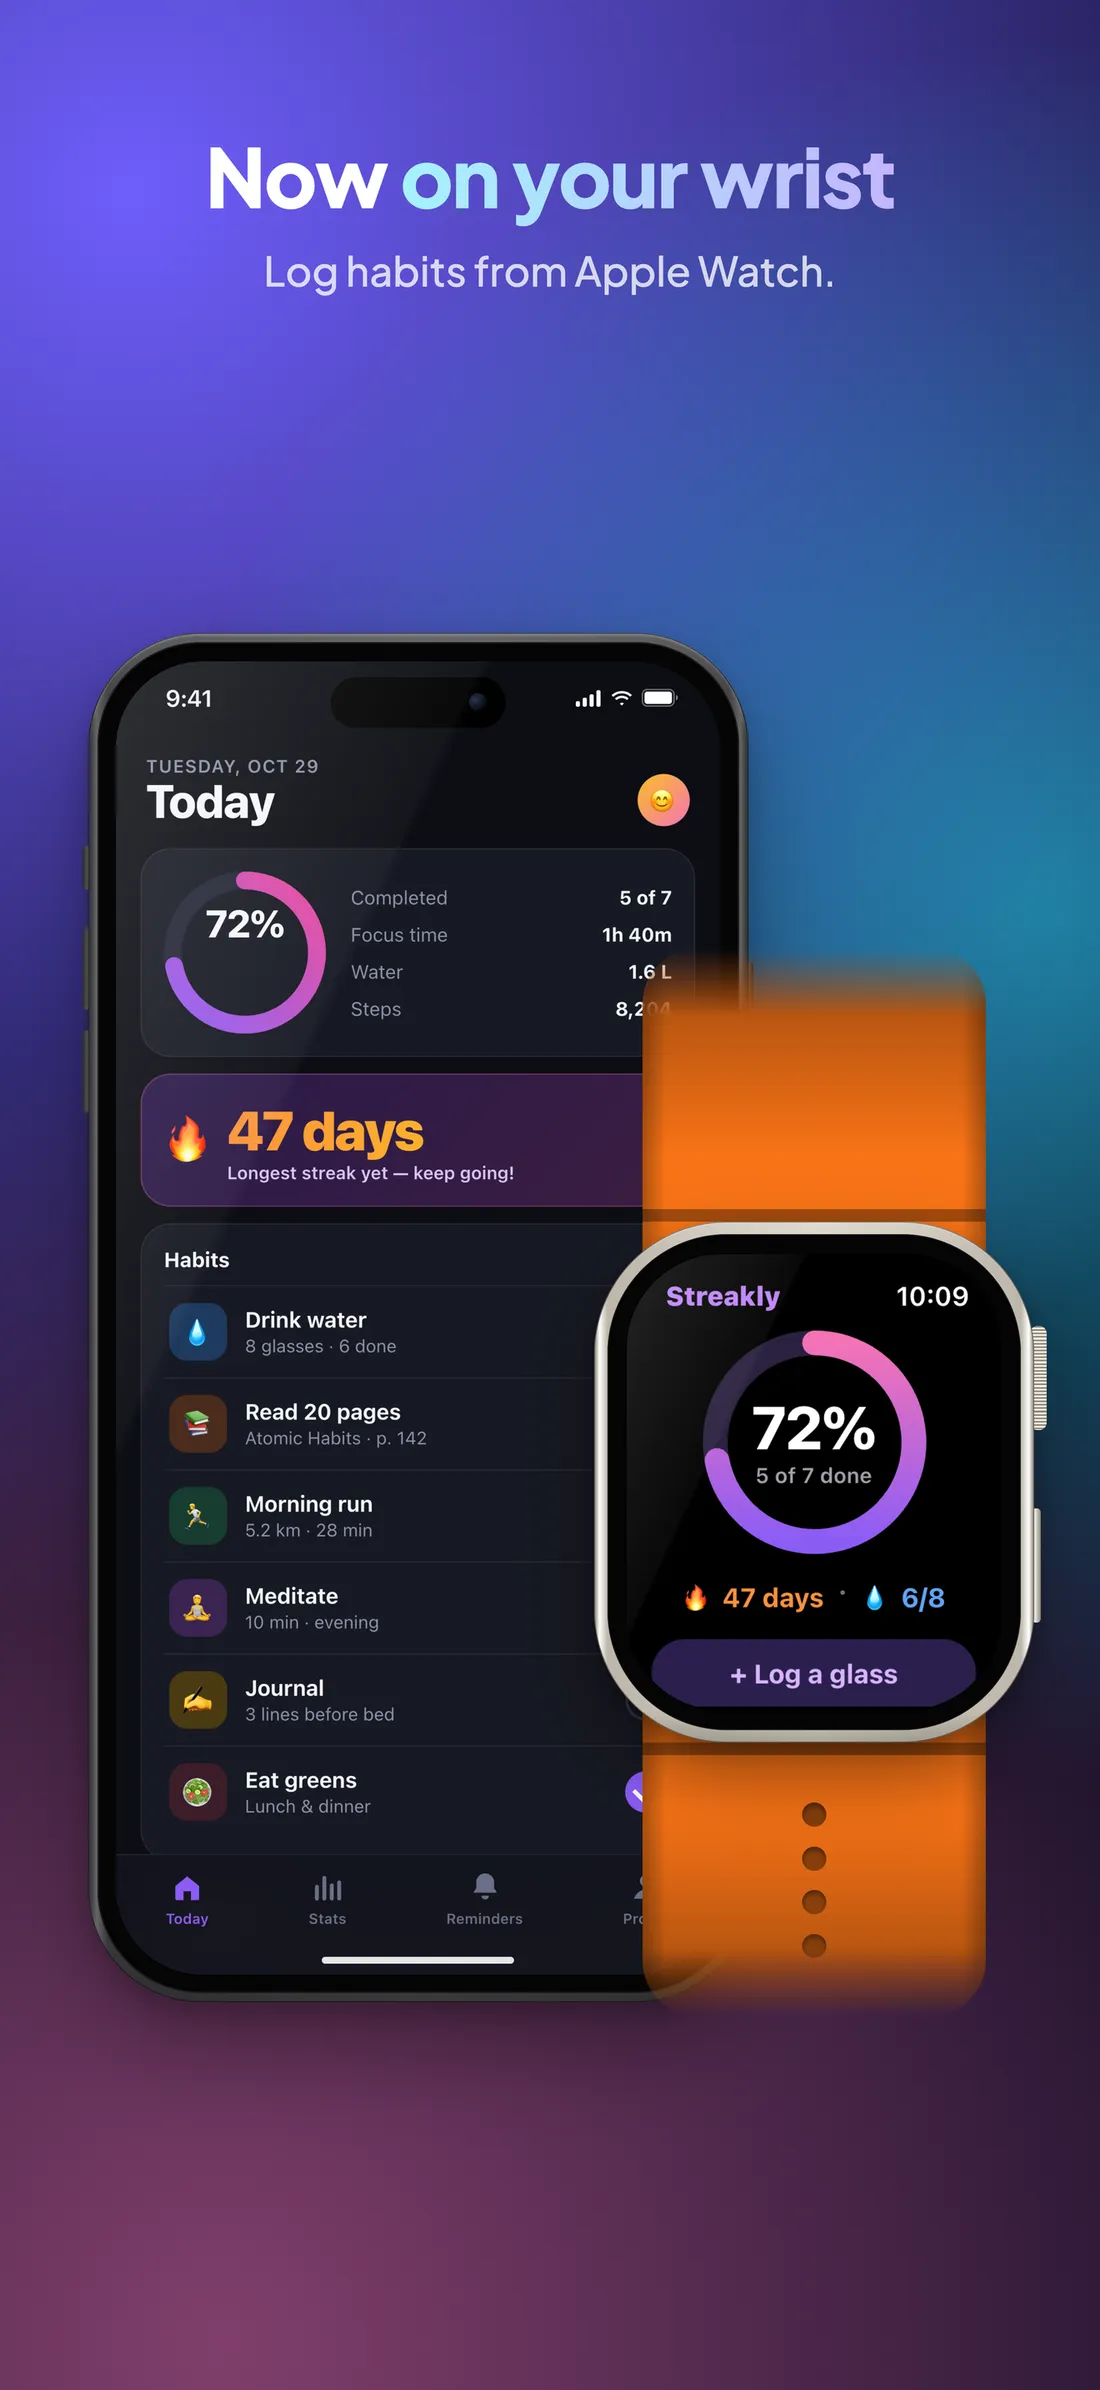
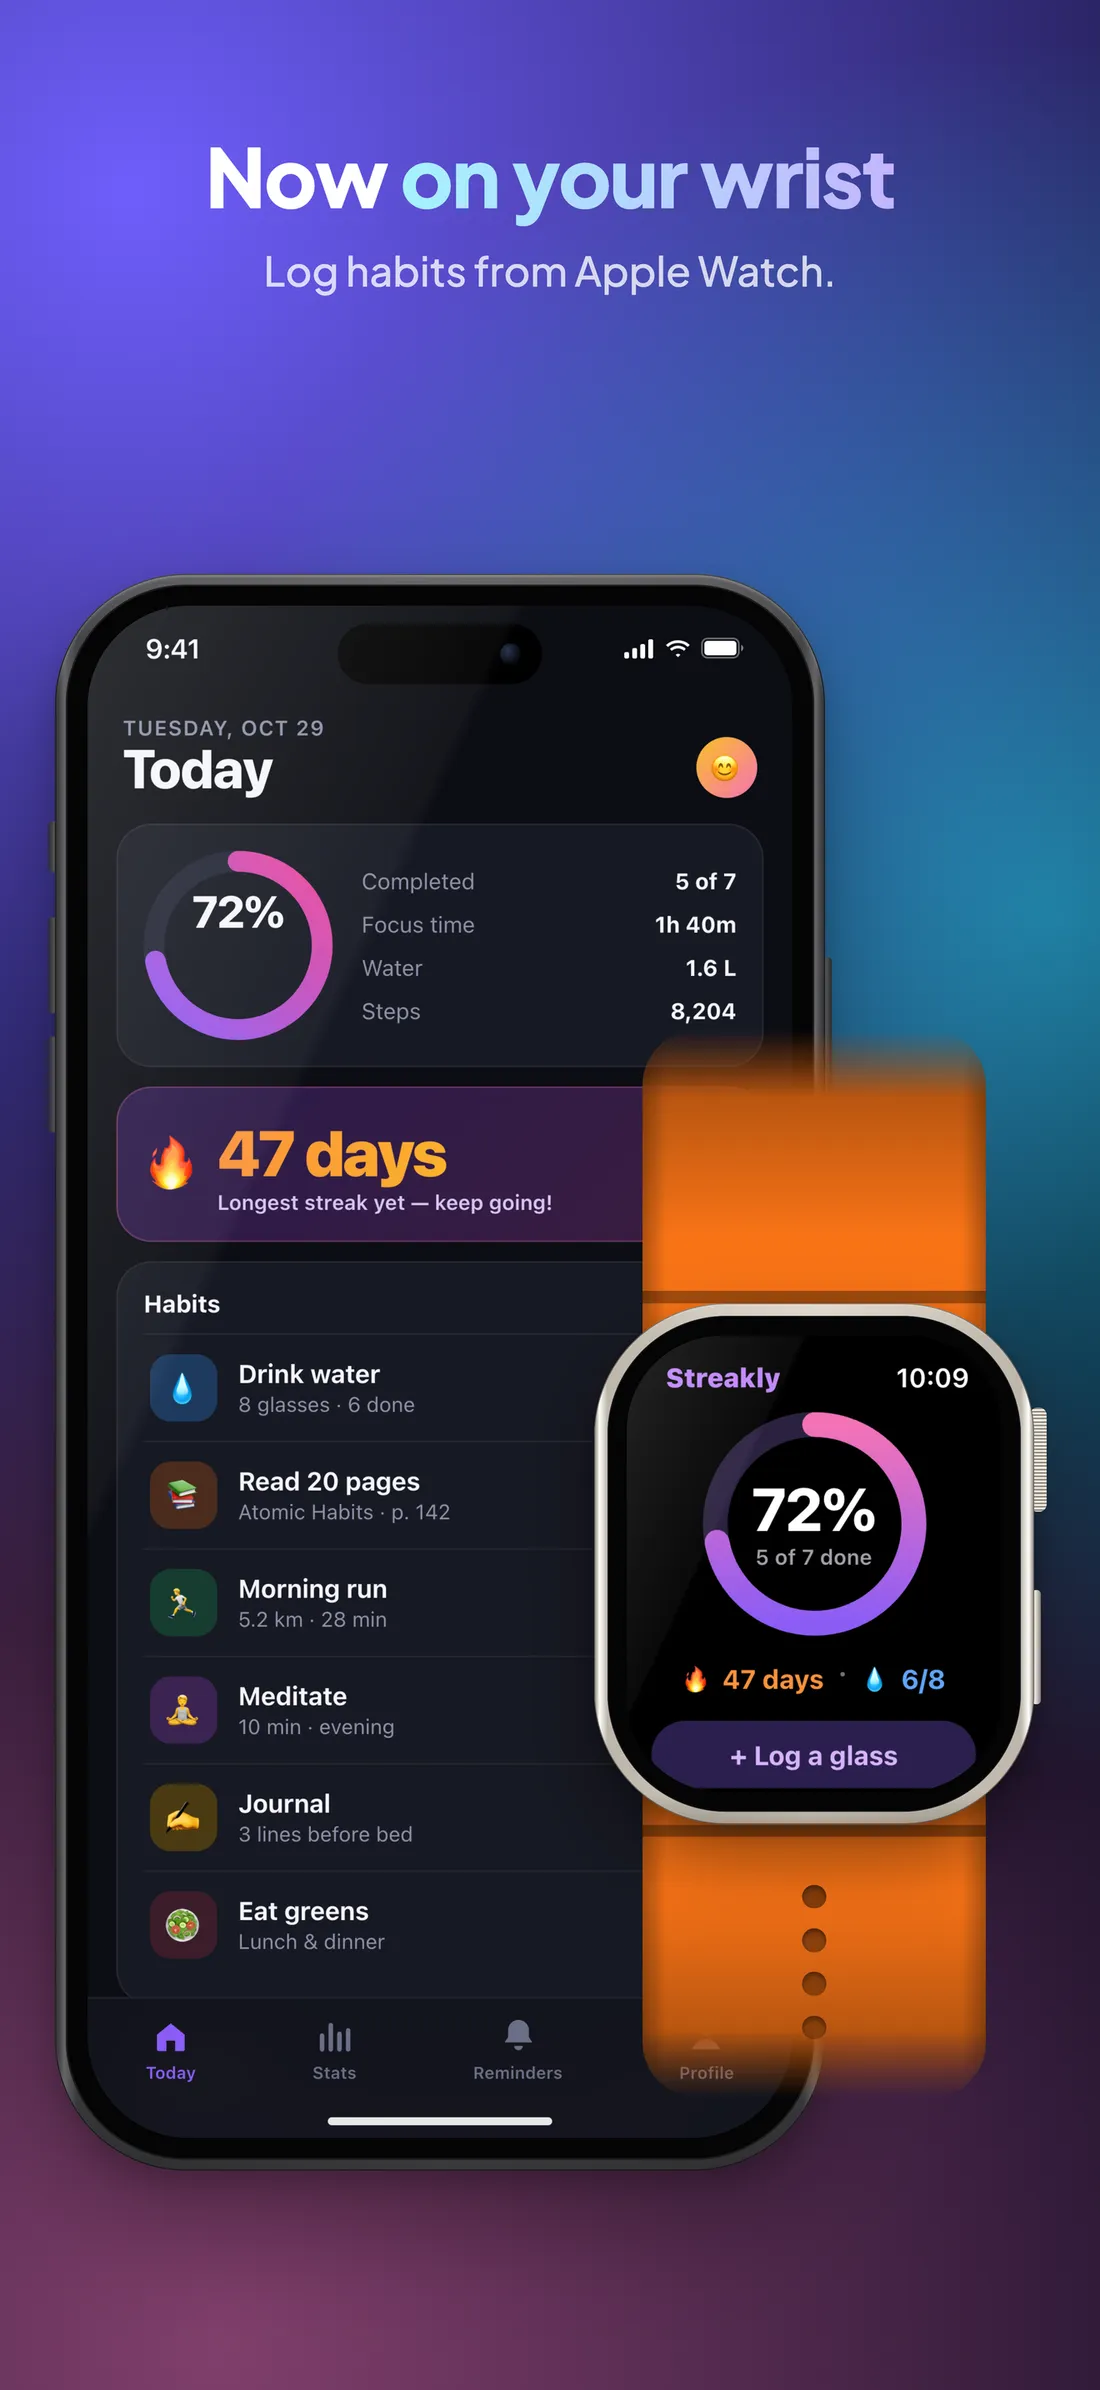
1.0.2: styled Apple Watch store shots (@styled) and a bigger phone-watch
- Apple Watch targets take @styled: background and caption at the store size,
  watch-hero with a strap-less watch by default, exported by --fastlane. Wear OS stays raw.
- phone-watch on tall canvases: phone 70% wide and higher up, watch follows it.
- devices example gains a watch-ultra@styled slide; docs and site shots updated.

Changed region(s): [[0.0309, 0.2167, 0.9582, 0.9289]]

diff --git a/skills/generating-app-screenshots/references/config.md b/skills/generating-app-screenshots/references/config.md
@@ -46,12 +46,16 @@ Paths are relative to the config file. Coordinates for every element:
 | `play-feature-graphic` | 1024×500 | exactly one image |
 | `og-image`, `x-post`, `product-hunt`, `instagram`, `story` | | social promo, not uploaded |
 
-Append `@landscape` (e.g. `"ipad-13@landscape"`). Custom: `{ "id": "promo", "w": 1200, "h": 628, "model": "iphone" }`.
+Append `@landscape` (e.g. `"ipad-13@landscape"`), or `@styled` to an Apple Watch target (below). Custom: `{ "id": "promo", "w": 1200, "h": 628, "model": "iphone" }`.
 
 **Raw targets** (`raw: true`: the watches) output just the slide's `screen`, scaled to fill the exact size: no frame, caption,
 background or panorama. Give watch slides their own screens and limit them with the family key:
 `{ "id": "watch-1", "targets": ["watch"], "screen": "screens/watch.html", "byTarget": { "wear-os": { "screen": "screens/watch-round.html" } } }`.
 `byTarget`, `targets` and `skipTargets` accept the target id, base id, store (`ios play msstore social`) or family (`watch desktop`).
+**Styled Apple Watch shots**: `"watch-ultra@styled"` (any Apple Watch target) keeps the store size but renders background and
+caption like a phone slide; App Store Connect accepts these and rounds the corners itself, so keep the caption short and centered.
+Watch slides default to `watch-hero` there, with a strap-less watch filling the canvas under a one-line `title`. `--fastlane`
+exports them as watch screenshots. Wear OS has no `@styled`: Google Play rejects captioned watch shots.
 Apple changes its table yearly — check the App Store Connect "Screenshot specifications" page when unsure.
 
 ## theme
@@ -149,8 +153,8 @@ See all of them rendered: `examples/gallery/out/index.html` (config: `examples/g
 
 | layout | composition | extra slide fields | use for |
 |---|---|---|---|
-| `phone-watch` | phone with a watch in front, lower right | `screen2` (watch UI), `watchModel` (`apple-watch` default, `wear-os` on Play), `phoneModel`, `watch: {color, band}` | "also on your wrist" |
-| `watch-hero` | one big watch with straps under the caption | `screen` = watch UI, `watchModel`, `device: {color, band}` | watch launch, social, website |
+| `phone-watch` | phone with a watch in front, lower right | `screen2` (watch UI), `watchModel` (`apple-watch` default, `wear-os` on Play), `phoneModel`, `watch: {color, band}` (`band: false` for the case alone) | "also on your wrist" |
+| `watch-hero` | one big watch with straps under the caption (strap-less on a `@styled` watch target) | `screen` = watch UI, `watchModel`, `device: {color, band}` (`band: false` hides the straps) | watch launch, social, website, styled watch store shots |
 | `laptop-phone` | laptop with a phone in front (tall and wide canvases) | `screen2` (desktop UI), `laptopModel` (`macbook`; `desktop` on Windows), `device2: {color}` | cross-platform, sync |
 
 All device frames rendered: `examples/devices/out/index.html` (config: `examples/devices/devices.config.json`).

diff --git a/skills/generating-app-screenshots/SKILL.md b/skills/generating-app-screenshots/SKILL.md
@@ -46,7 +46,7 @@ downloading. Output is validated against store rules (exact size, no alpha, coun
 
 | Need | Config |
 |---|---|
-| Which store sizes | `"targets": ["ios-6.9","ipad-13","android-phone","play-feature-graphic"]` (+ `@landscape`); Mac `mac`; Windows `windows`; watch `watch-ultra`, `wear-os` (raw UI only) |
+| Which store sizes | `"targets": ["ios-6.9","ipad-13","android-phone","play-feature-graphic"]` (+ `@landscape`); Mac `mac`; Windows `windows`; watch `watch-ultra`, `wear-os` (raw UI; Apple Watch may take `@styled`) |
 | Device frames | `"device": { "model": "iphone\|iphone-notch\|iphone-home\|ipad\|android\|android-flat\|android-tablet\|apple-watch\|wear-os\|macbook\|desktop\|mac-window\|windows-window\|browser\|none" }` — `examples/devices/` |
 | Cross-device | layouts `phone-watch` `watch-hero` `laptop-phone`; slide `targets: ["watch"]` / `["desktop"]` to give a family its own slides |
 | Layout (41) | device: `text-top text-bottom hero device-hero screen-hero tilt-left tilt-right corner frameless landscape` · multi: `two-devices three-devices phone-tablet before-after mosaic` · callouts: `pop-out metric annotated` · proof/info: `feature-grid steps stats review awards split-photo caption-only` · wide: `text-left text-right` · `caption-top` (caption band only) · `blank` · **signature**: `spotlight big-type ticker arch orbit lens layers notify deck` (see `examples/signature/`) |
@@ -68,6 +68,6 @@ downloading. Output is validated against store rules (exact size, no alpha, coun
 - **iPhone screenshot on an iPad target** → `model: "auto"` picks the frame from the screenshot's aspect, so the iPad slot shows a phone. Capture real iPad screens; Apple rejects stretched phone UI.
 - **Ignoring `WARN text is covered`** → a device sits on top of the caption; move one.
 - **Feature graphic gets every slide** → mark other slides `"skipTargets": ["play-feature-graphic"]`.
-- **Captions or frames on watch store shots** → Wear OS rejects them and Apple masks watch shots itself; the `watch-*`/`wear-os` targets render the bare UI. Put framed watches in phone slides (`phone-watch`) or social images instead.
+- **Captions or frames on watch store shots** → Wear OS rejects them, so `wear-os` renders the bare UI. Apple masks watch shots itself: `watch-*` is bare by default, and `watch-ultra@styled` adds background and a short caption. Framed watches belong in phone slides (`phone-watch`) or social images.
 - **Phone slides leaking into watch/Mac/Windows targets** → give each family its own slides with `"targets": ["watch"]` / `["desktop"]`, and `"skipTargets"` on the phone ones.
 - **Fonts missing a script** → the renderer adds Noto fonts for ja/ko/zh/ar/he/th/hi automatically; keep `font.weights` to weights the Google font has.

diff --git a/CHANGELOG.md b/CHANGELOG.md
@@ -1,7 +1,9 @@
 # Changelog
 
-## Unreleased
+## 1.0.2 (2026-10-30)
 
+- Apple Watch targets take `@styled` (e.g. `"watch-ultra@styled"`): background and caption at the store size, a strap-less watch via `watch-hero` by default, still exported by `--fastlane` as watch screenshots. Wear OS stays raw.
+- `phone-watch` on tall canvases: a bigger phone (70% wide, higher up) and the watch moved down with it, so less of the canvas is empty.
 - Showcase: a real app sample (AptusFIT) with 31 options in 12 languages, previewed as App Store and Google Play listings, at `docs/samples/aptusfit/`.
 
 ## 1.0.1 (2026-10-29)
